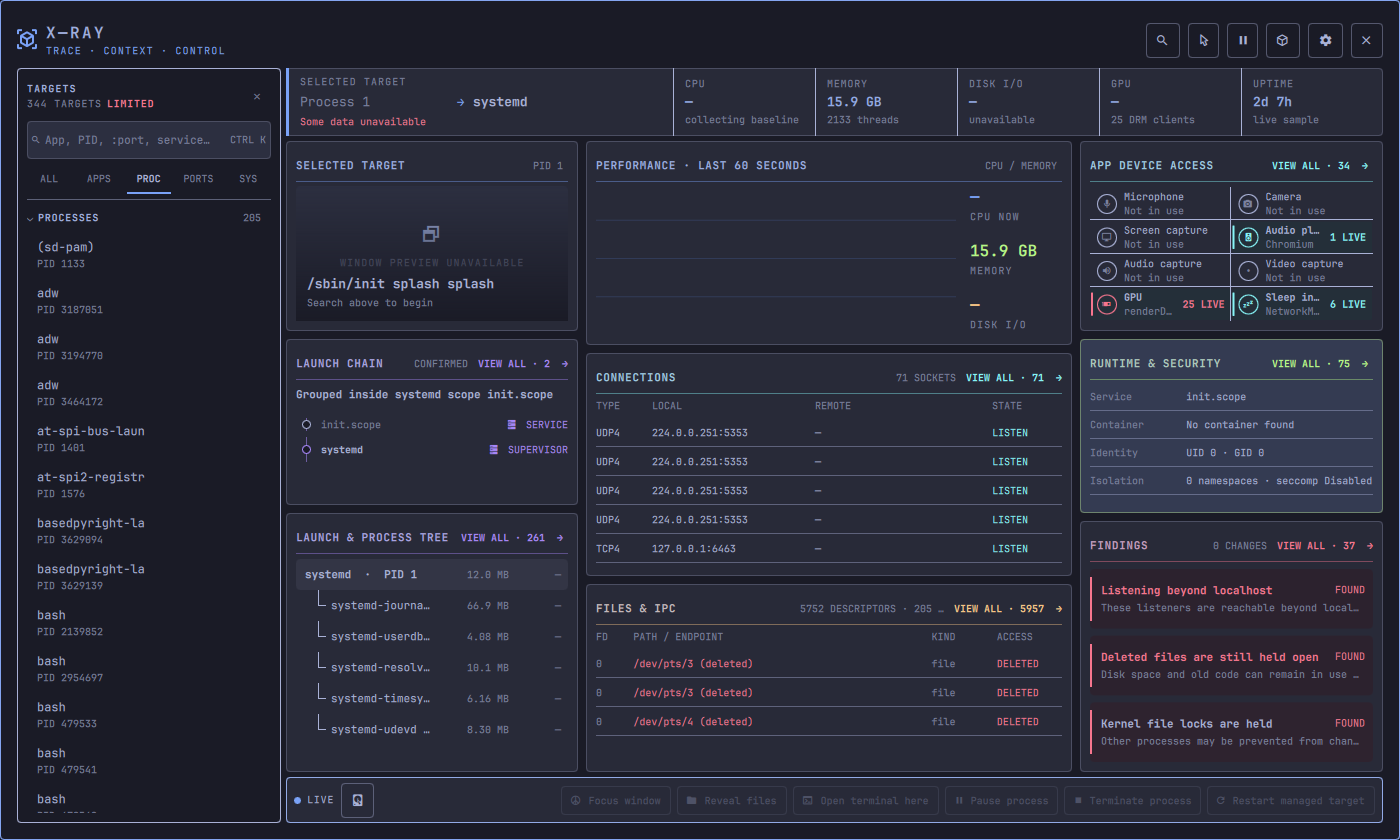
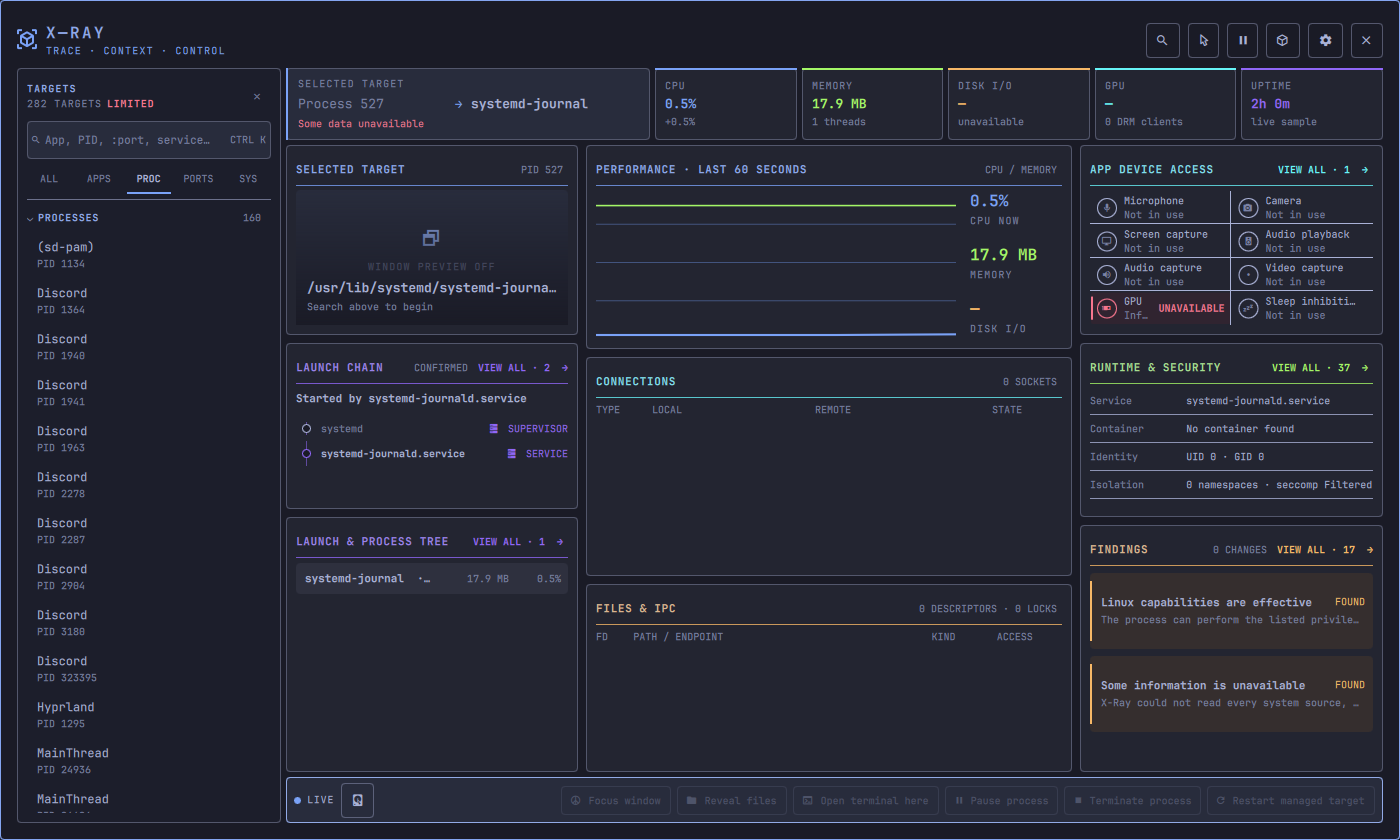
feat: refine target telemetry ribbon

diff --git a/ui/views/IdentityBar.qml b/ui/views/IdentityBar.qml
@@ -3,7 +3,7 @@ import QtQuick.Layouts
 import "../controls"
 import "../Format.js" as Format
 
-Rectangle {
+Item {
     id: root
 
     required property var theme
@@ -38,35 +38,36 @@ Rectangle {
         return "read + write";
     }
 
-    height: 68
-    radius: theme.radius
-    color: theme.summarySurface
-    border.color: theme.cardBorder
-    border.width: theme.borderWidth
-    clip: true
-
-    Rectangle {
-        width: 3
-        anchors.top: parent.top
-        anchors.bottom: parent.bottom
-        anchors.left: parent.left
-        color: root.theme.accent
-    }
+    height: theme.telemetryHeight
 
     RowLayout {
         anchors.fill: parent
-        spacing: 0
+        spacing: root.theme.smallGap
 
-        Item {
+        Rectangle {
             Layout.fillWidth: true
-            Layout.preferredWidth: 360
-            Layout.minimumWidth: 250
+            Layout.preferredWidth: root.theme.telemetryTargetWidth
+            Layout.minimumWidth: root.theme.telemetryTargetMinimumWidth
             Layout.fillHeight: true
+            radius: root.theme.radius
+            color: root.theme.summarySurface
+            border.color: root.theme.cardBorder
+            border.width: root.theme.borderWidth
+            clip: true
+
+            Rectangle {
+                width: root.theme.telemetryRailWidth
+                anchors.top: parent.top
+                anchors.bottom: parent.bottom
+                anchors.left: parent.left
+                color: root.theme.accent
+            }
 
             ColumnLayout {
                 anchors.fill: parent
-                anchors.leftMargin: 14
-                anchors.rightMargin: 12
+                anchors.leftMargin: root.theme.telemetryModulePadding
+                    + root.theme.telemetryRailWidth
+                anchors.rightMargin: root.theme.telemetryModulePadding
                 spacing: 4
 
                 Item { Layout.fillHeight: true }
@@ -136,27 +137,38 @@ Rectangle {
 
         Repeater {
             model: [
-                {"label": "CPU", "value": Format.percent(root.metrics.cpuPercent), "detail": root.cpuDetail()},
-                {"label": "Memory", "value": Format.bytes(root.metrics.memoryBytes), "detail": (root.metrics.threads || 0) + " threads"},
-                {"label": "Disk I/O", "value": root.metrics.ioAvailable === false ? "—" : Format.rate(Number(root.metrics.readBytesPerSecond || 0) + Number(root.metrics.writeBytesPerSecond || 0)), "detail": root.ioDetail()},
-                {"label": "GPU", "value": Format.percent(root.metrics.gpuPercent), "detail": ((root.snapshot.devices || {}).gpu || []).length + " DRM clients"},
-                {"label": "Uptime", "value": Format.duration(root.metrics.uptimeSeconds), "detail": root.metrics.uptimeSeconds === null || root.metrics.uptimeSeconds === undefined ? "unavailable" : root.snapshot.samplingPaused ? "sampling paused" : "live sample"}
+                {"label": "CPU", "value": Format.percent(root.metrics.cpuPercent), "detail": root.cpuDetail(), "accent": root.theme.cpuAccent},
+                {"label": "Memory", "value": Format.bytes(root.metrics.memoryBytes), "detail": (root.metrics.threads || 0) + " threads", "accent": root.theme.memoryAccent},
+                {"label": "Disk I/O", "value": root.metrics.ioAvailable === false ? "—" : Format.rate(Number(root.metrics.readBytesPerSecond || 0) + Number(root.metrics.writeBytesPerSecond || 0)), "detail": root.ioDetail(), "accent": root.theme.storageAccent},
+                {"label": "GPU", "value": Format.percent(root.metrics.gpuPercent), "detail": ((root.snapshot.devices || {}).gpu || []).length + " DRM clients", "accent": root.theme.deviceAccent},
+                {"label": "Uptime", "value": Format.duration(root.metrics.uptimeSeconds), "detail": root.metrics.uptimeSeconds === null || root.metrics.uptimeSeconds === undefined ? "unavailable" : root.snapshot.samplingPaused ? "sampling paused" : "live sample", "accent": root.theme.processAccent}
             ]
 
-            delegate: Item {
+            delegate: Rectangle {
                 required property var modelData
                 Layout.fillWidth: true
-                Layout.preferredWidth: 132
-                Layout.minimumWidth: 92
+                Layout.preferredWidth: root.theme.telemetryMetricWidth
+                Layout.minimumWidth: root.theme.telemetryMetricMinimumWidth
                 Layout.fillHeight: true
+                radius: root.theme.radius
+                color: root.theme.quietSurface
+                border.color: root.theme.cardBorder
+                border.width: root.theme.borderWidth
 
-                Rectangle { width: 1; height: parent.height; color: root.theme.border }
+                Rectangle {
+                    anchors.top: parent.top
+                    anchors.left: parent.left
+                    anchors.right: parent.right
+                    height: root.theme.telemetrySignalHeight
+                    color: modelData.accent
+                }
                 SummaryMetric {
                     anchors.fill: parent
                     theme: root.theme
                     label: modelData.label
                     value: modelData.value
                     detail: modelData.detail
+                    accentColor: modelData.accent
                 }
             }
         }

diff --git a/ui/XRayTheme.qml b/ui/XRayTheme.qml
@@ -157,6 +157,14 @@ QtObject {
     readonly property int targetBrowserSectionHeight: Style.space(26)
     readonly property int targetBrowserTabIndicatorHeight: Math.max(2, borderWidth * 2)
     readonly property int targetBrowserBeamWidth: Math.max(2, borderWidth * 2)
+    readonly property int telemetryHeight: Style.space(72)
+    readonly property int telemetryTargetWidth: Style.space(340)
+    readonly property int telemetryTargetMinimumWidth: Style.space(240)
+    readonly property int telemetryMetricWidth: Style.space(132)
+    readonly property int telemetryMetricMinimumWidth: Style.space(86)
+    readonly property int telemetryModulePadding: Style.space(10)
+    readonly property int telemetryRailWidth: Math.max(2, borderWidth * 2)
+    readonly property int telemetrySignalHeight: Math.max(2, borderWidth * 2)
     readonly property int footerExpandedWidth: Style.space(1120)
     readonly property int footerSidePadding: Style.space(8)
     readonly property int footerSpacing: Style.space(6)

diff --git a/ui/controls/SummaryMetric.qml b/ui/controls/SummaryMetric.qml
@@ -8,11 +8,12 @@ Item {
     property string label: ""
     property string value: "—"
     property string detail: ""
+    property color accentColor: theme.metricText
 
     ColumnLayout {
         anchors.fill: parent
-        anchors.leftMargin: 12
-        anchors.rightMargin: 8
+        anchors.leftMargin: root.theme.telemetryModulePadding
+        anchors.rightMargin: root.theme.telemetryModulePadding
         spacing: 2
 
         Item { Layout.fillHeight: true }
@@ -28,7 +29,7 @@ Item {
         PlainText {
             Layout.fillWidth: true
             text: root.value
-            color: root.theme.metricText
+            color: root.accentColor
             font.family: root.theme.dataFont
             font.pixelSize: root.theme.summaryFontSize
             font.bold: true
